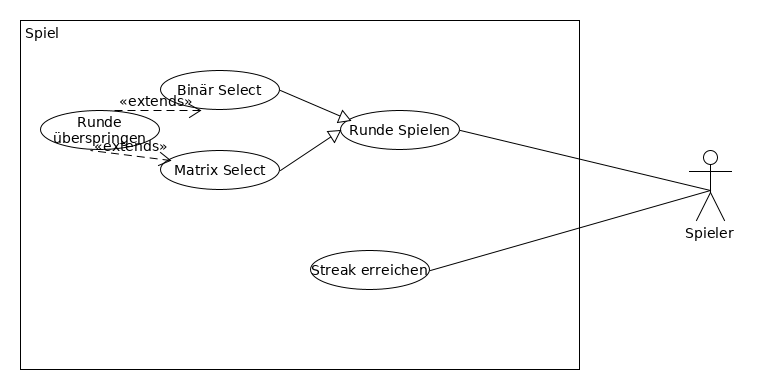
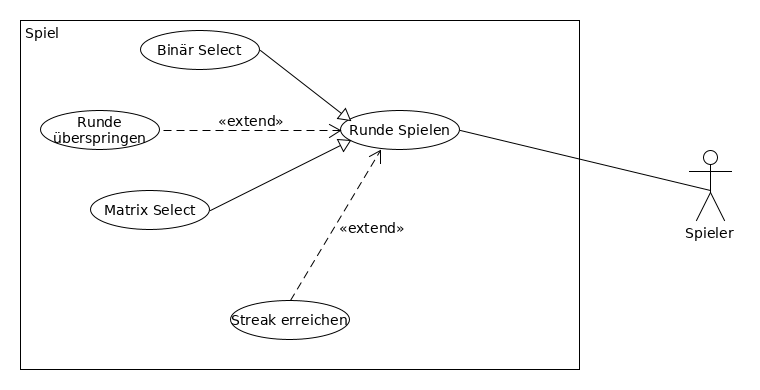
reorganized headings for anwendugsfälle and adressed comments for Use-Case Diagramms

diff --git a/pflichtenheft/pflichtenheft.tex b/pflichtenheft/pflichtenheft.tex
@@ -277,9 +277,8 @@ description={Ein Server, der nicht Bestandteil des Produktes ist, jedoch benöti
         %/NF100/ & Es gibt nicht mehr als einen Ausfall des Systems pro Monat. \\ %Realistisch?
     \end{tabularx}
 
-    \chapter{Systemmodelle}
-    \section{Anwendungsfälle}
-
+    \chapter{Testszenarien}
+    \section{Organisation}
     \includegraphics[width=\textwidth]{uml/export/Organisation.png}
     Akteure:
     \begin{itemize}
@@ -469,6 +468,7 @@ description={Ein Server, der nicht Bestandteil des Produktes ist, jedoch benöti
 
 
     \newpage
+    \section{Spiel}
     \includegraphics[width=\textwidth]{uml/export/Spiel.png}
     Akteure: 
     \begin{itemize}
@@ -538,6 +538,7 @@ description={Ein Server, der nicht Bestandteil des Produktes ist, jedoch benöti
     \end{itemize}
     
 \newpage
+    \section{Spieler-Übersicht}
     \includegraphics[width=\textwidth]{uml/export/Spieler_Ubersicht.png}
 	    \subsection{Achievements ansehen}
     \begin{itemize}
@@ -569,6 +570,7 @@ description={Ein Server, der nicht Bestandteil des Produktes ist, jedoch benöti
     %Nach der Anmeldung erreicht ein \Gls{Spieler} eine Übersichts-Seite. Darauf ist ein Bereich, der eine aktuelle Tabelle
     %anzeigt, in welcher die \Gls{Spieler} aufgelistet sind, die in einem bestimmten Zeitraum die meisten Punkte erreicht haben.
     \newpage
+    \section{Administration}
     \includegraphics[width=\textwidth]{uml/export/Administration.png}
      \subsection{Sprache ändern}
     \begin{itemize}
@@ -661,9 +663,7 @@ description={Ein Server, der nicht Bestandteil des Produktes ist, jedoch benöti
 
     %TODO: Ausführung auf verschiedenem Ports
 
-        \section{Objektmodell}
-
-    \section{Dynamische Modelle}
+    \chapter{Dynamische Modelle}
     \subsection{Streak Zustandsdiagramm}
     \label{fig:Streak_State}
     \includegraphics[width=\textwidth]{uml/export/Streak_Zustand.png}
